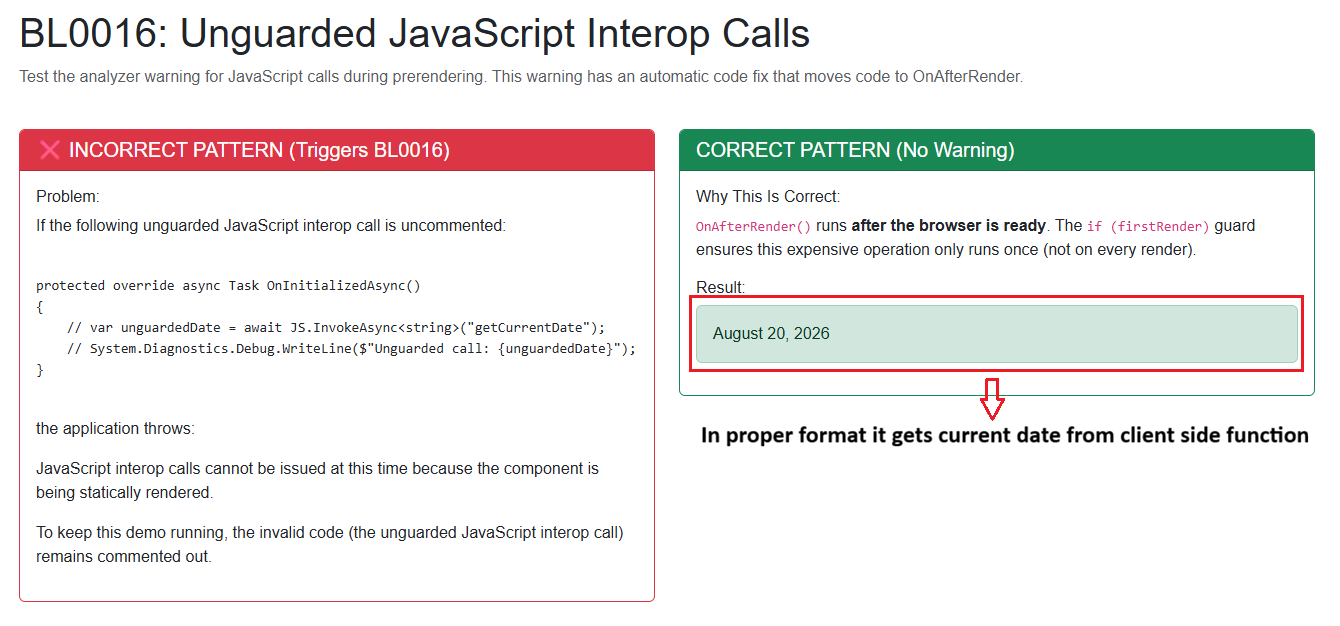
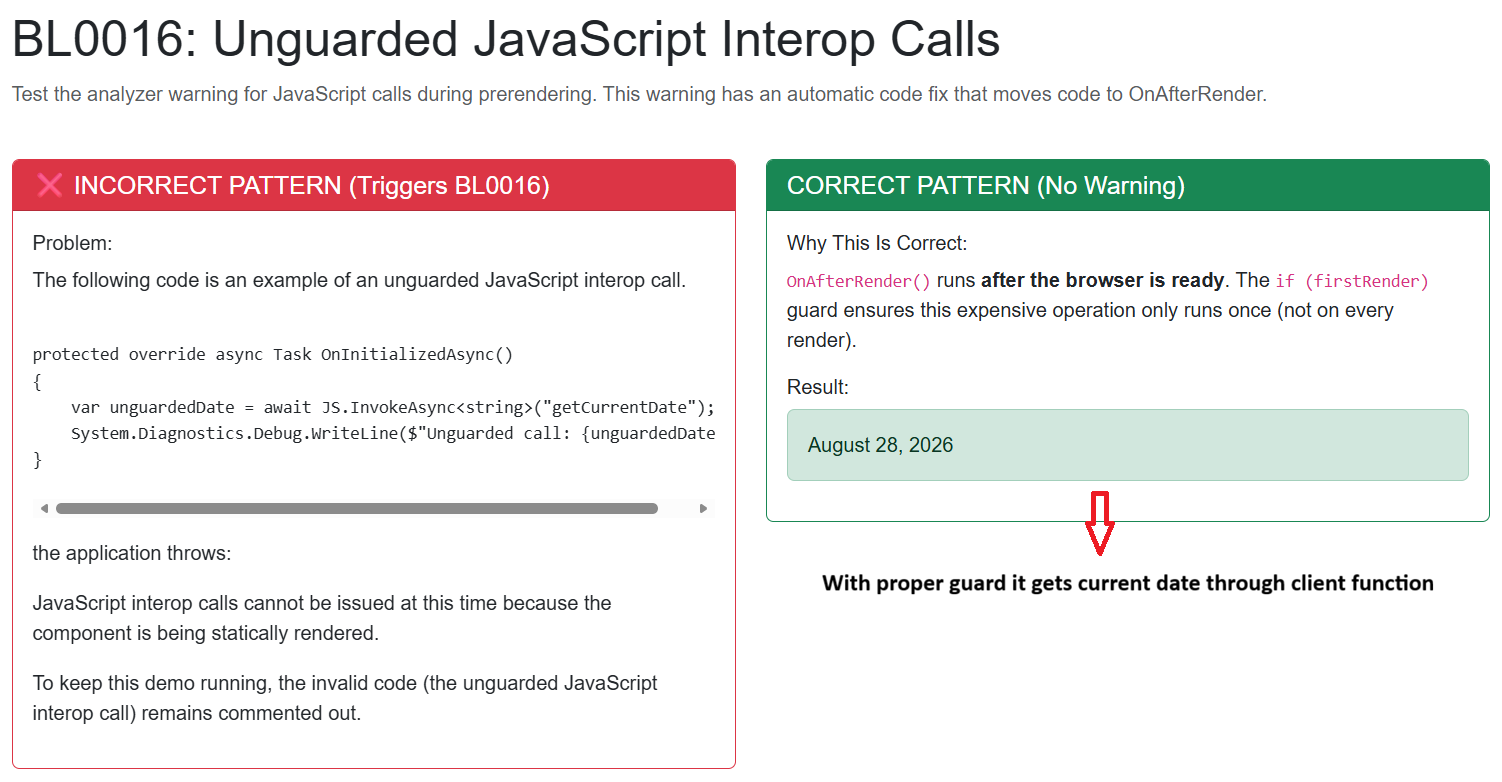
updated review concerns

diff --git a/src/BlazorJsInteropDiagnosticsApp/BlazorJsInteropDiagnosticsApp/Services/JsInteropHelper.cs b/src/BlazorJsInteropDiagnosticsApp/BlazorJsInteropDiagnosticsApp/Services/JsInteropHelper.cs
@@ -47,7 +47,7 @@ public class JsInteropHelper
         catch (JSDisconnectedException ex)
         {
             Debug.WriteLine($"JS disconnected while calling calculateSum: {ex.Message}");
-            return 0;
+            throw;
         }
         catch (Exception ex)
         {
